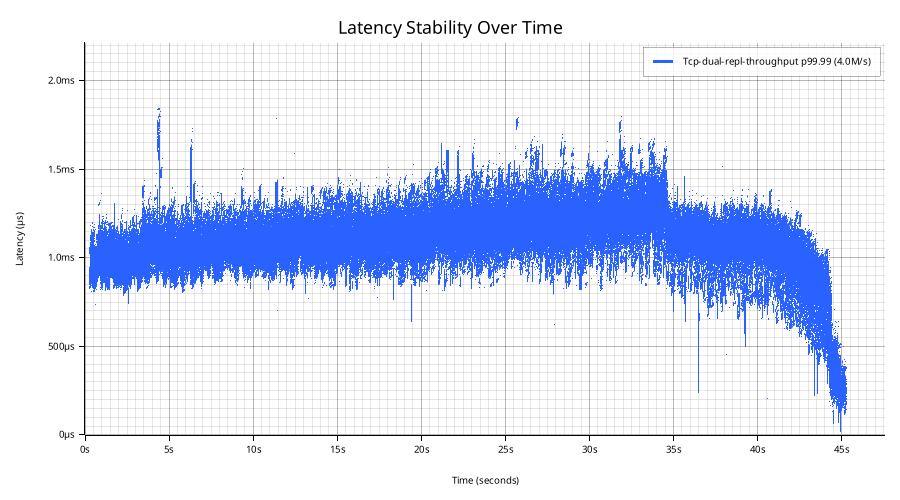
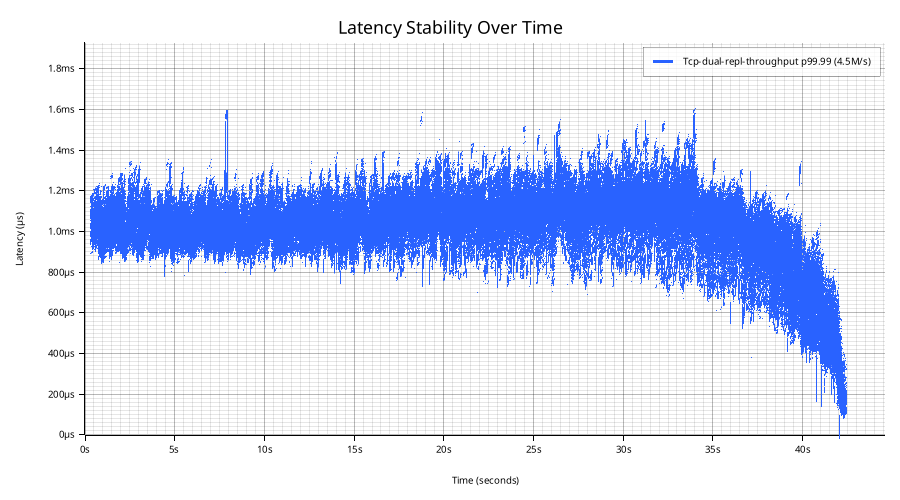
perf(fix-gateway): enable SO_BUSY_POLL on FIX client and Melin sockets
The gateway event loop busy-spins on the io_uring CQ, so kernel
busy-polling on both the inbound FIX client socket and the outbound
Melin connection removes the softirq->wakeup handoff from both legs of
the gateway's request path.

Changed region(s): [[0.0311, 0.09, 0.9956, 0.9]]

diff --git a/crates/fix-gateway/src/event_loop.rs b/crates/fix-gateway/src/event_loop.rs
@@ -336,6 +336,8 @@ impl Gateway {
 
         // Set TCP_NODELAY on the new socket.
         set_tcp_nodelay(fd);
+        // Enable SO_BUSY_POLL — gateway loop spins on the io_uring CQ.
+        set_busy_poll(fd);
 
         let peer = get_peer_addr(fd);
         info!(peer = %peer, fd, "FIX client connected");
@@ -481,6 +483,7 @@ impl Gateway {
         }
 
         set_tcp_nodelay(fd);
+        set_busy_poll(fd);
 
         if let Some(session) = self.sessions.get_mut(idx) {
             session.melin_fd = Some(fd);
@@ -934,6 +937,27 @@ fn set_tcp_nodelay(fd: RawFd) {
             &val as *const _ as *const libc::c_void,
             std::mem::size_of_val(&val) as libc::socklen_t,
         );
+    }
+}
+
+/// Enable kernel busy-polling on the FIX client socket. Removes the
+/// softirq->wakeup handoff for incoming bytes; safe to apply because the
+/// gateway's io_uring loop already busy-spins on the CQ. 50us window
+/// matches the Melin server-side value.
+fn set_busy_poll(fd: RawFd) {
+    let val: libc::c_int = 50;
+    let rc = unsafe {
+        libc::setsockopt(
+            fd,
+            libc::SOL_SOCKET,
+            libc::SO_BUSY_POLL,
+            &val as *const _ as *const libc::c_void,
+            std::mem::size_of_val(&val) as libc::socklen_t,
+        )
+    };
+    if rc != 0 {
+        let err = std::io::Error::last_os_error();
+        debug!(fd, error = %err, "failed to set SO_BUSY_POLL on FIX client socket");
     }
 }
 